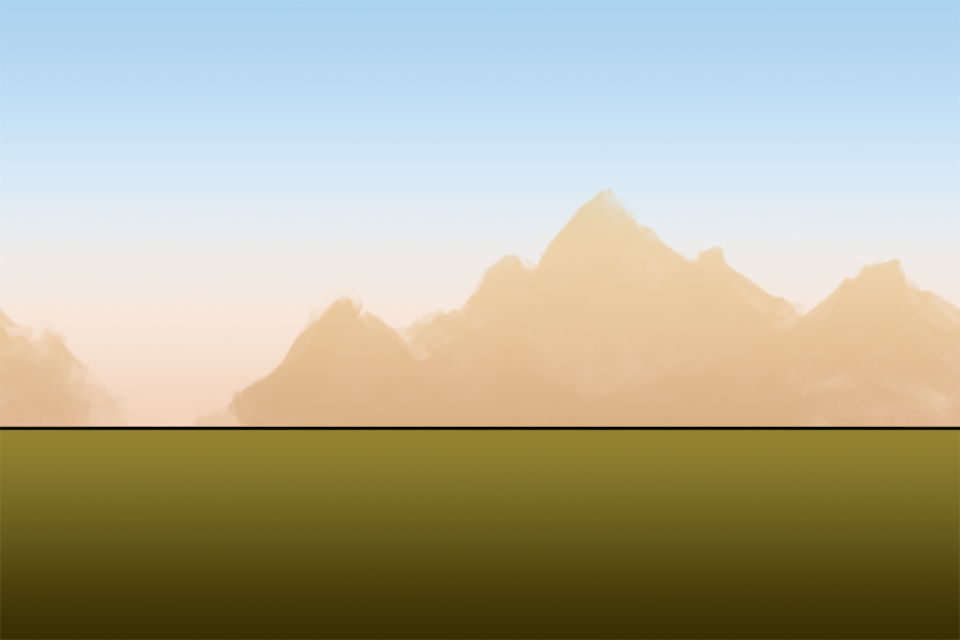
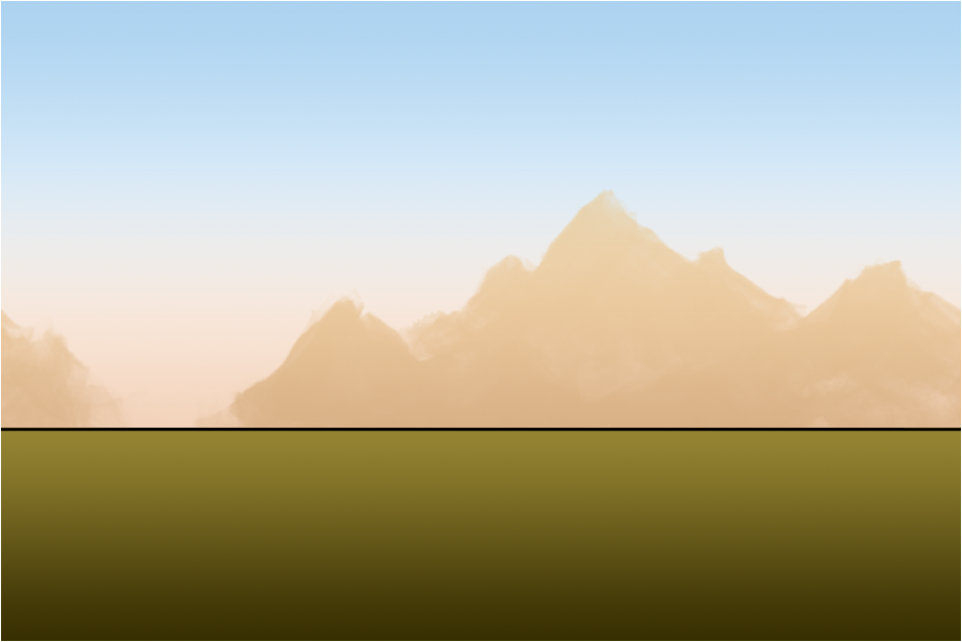
started work on background, trying to fix a single white line pixel around the border

Changed region(s): [[0.0938, 0.6562, 0.2188, 0.6875], [0.9688, 0.6562, 1.0, 0.6875], [0.0, 0.6562, 0.0312, 0.6875]]

diff --git a/Clay/Player.m b/Clay/Player.m
@@ -15,19 +15,19 @@
 #define PLAYER_STARTING_X_POSITION 20
 #define PLAYER_LOGX_MULTIPLIER 1
 #define PLAYER_LOGX_MAGNITUDE 5
-#define PLAYER_LOGX_OFFSET 3.4
-#define PLAYER_SINX_MULTIPLIER 5
+#define PLAYER_LOGX_OFFSET 8.55
+#define PLAYER_SINX_MULTIPLIER 1
 #define PLAYER_VELOCITY_MULTIPLIER 2
-#define PLAYER_LOGX_MAX_VALUE 3.2
+#define PLAYER_LOGX_MAX_VALUE 2.2
 
 @implementation Player
 
-+(id) playerForScene:(id)scene
++(id) playerForLayer:(id)layer
 {
-    return [[self alloc] initWithScene:scene];
+    return [[self alloc] initWithLayer:layer];
 }
 
-- (id)initWithScene:(id)scene
+- (id)initWithLayer:(id)layer
 {
     if ((self=[super init])) {
 
@@ -35,7 +35,7 @@
         _velocity = PLAYER_STARTING_VELOCITY;
         _xposition = PLAYER_STARTING_X_POSITION;
         
-        [self setSprite:[Sprite spriteWithFile:@"player_idle_01.png" toScene:scene]];
+        [self setSprite:[Sprite spriteWithFile:@"player_idle_01.png" toLayer:layer]];
         [self setPositionAtX:_xposition Y:PLAYER_STARTING_Y_POSITION];
         
         //log equation to be used for calculating speed
@@ -63,12 +63,12 @@
             logValue = PLAYER_LOGX_MAX_VALUE;
             [_sinCalculator addTime:dt];
         }
-        float sinValue = [_logCalculator calculate:kSinX];
+        float sinValue = [_sinCalculator calculate:kSinX];
         NSLog(@"LOG: %f, SIN: %f",logValue,sinValue);
         _velocity = (PLAYER_LOGX_MAGNITUDE * logValue + PLAYER_LOGX_OFFSET) + sinValue * 5;
         _xposition = PLAYER_STARTING_X_POSITION + PLAYER_VELOCITY_MULTIPLIER * _velocity;
+        NSLog(@"xpos: %f",_xposition);
         
-        //NSLog(@"Position: %f",logValue);
         [_sprite setPositionAtX:_xposition Y:PLAYER_STARTING_Y_POSITION];
     }
 }

diff --git a/Clay/Sprite.m b/Clay/Sprite.m
@@ -20,26 +20,51 @@
     return self;
 }
 
-+ (id) spriteWithFile:(NSString*)filename toScene:(id)scene
++(id) spriteWithFile:(NSString*)filename toLayer:(id)layer
 {
-    return [[self alloc] initWithFile:filename toScene:scene];
+    return [[self alloc] initWithFile:filename toLayer:layer];
 }
 
-- (id) initWithFile:(NSString*) filename toScene:(id)scene
++(id) spriteWithFile:(NSString *)filename rect:(CGRect)rect toLayer:(id)layer
+{
+    return [[self alloc] initWithFile:filename rect:rect toLayer:layer];
+}
+
+-(id) initWithFile:(NSString*) filename toLayer:(id)layer
 {
     NSAssert(filename!=nil, @"Invalid filename");
-    NSAssert(scene!=nil, @"Invalid scene");
+    NSAssert(layer!=nil, @"Invalid layer");
     
     if((self = [self init]))
     {
         sprite_cc = [[CCSprite spriteWithFile:filename] retain];
-        sprite_cc.position = ccp(0,0);
-        sprite_cc.anchorPoint = ccp(0,0);
-        [scene addChild:sprite_cc];
+        [self initializeSpriteOnceLoaded];
+        [layer addChild:sprite_cc];
     }
     return self;
 }
 
+-(id) initWithFile:(NSString *)filename rect:(CGRect)rect toLayer:(id)layer
+{
+    NSAssert(filename!=nil, @"Invalid filename");
+    NSAssert(layer!=nil, @"Invalid layer");
+    
+    if((self = [self init]))
+    {
+        sprite_cc = [[CCSprite spriteWithFile:filename] retain];
+        [self initializeSpriteOnceLoaded];
+        [layer addChild:sprite_cc];
+    }
+    return self;
+}
+
+-(void) initializeSpriteOnceLoaded
+{
+    NSAssert(sprite_cc!=nil, @"Do not call before sprite is loaded");
+    sprite_cc.position = ccp(0,0);
+    sprite_cc.anchorPoint = ccp(0,0);    
+}
+                     
 -(void) setCentered
 {
     sprite_cc.anchorPoint = ccp(0.5,0.5);

diff --git a/Clay/Background.m b/Clay/Background.m
@@ -1,0 +1,34 @@
+//
+//  Background.m
+//  Clay
+//
+//  Created by Brian Cable on 8/26/11.
+//  Copyright 2011 Xecudev, LLC. All rights reserved.
+//
+
+#import "Background.h"
+
+@implementation Background
+
+- (id)initForLayer:(id)layer
+{
+    self = [super init];
+    if (self) {
+        // Initialization code here.
+        _bkg1 = [Sprite spriteWithFile:@"background.bmp" toLayer:layer];
+        _bkg2 = [Sprite spriteWithFile:@"background.bmp" toLayer:layer];
+        [_bkg1 setPositionAtX:-160 Y:0];
+        [_bkg2 setPositionAtX:320 Y:0];
+    }
+    
+    return self;
+}
+
++(id)backgroundForLayer:(id)layer
+{
+    return [[self alloc] initForLayer:layer];
+}
+
+
+
+@end

diff --git a/Clay/Sprite.h b/Clay/Sprite.h
@@ -13,10 +13,14 @@
     CCSprite *sprite_cc;
 }
 
-+(id) spriteWithFile:(NSString *)filename toScene:(id)scene;
--(id) initWithFile:(NSString *)filename toScene:(id)scene;
++(id) spriteWithFile:(NSString *)filename toLayer:(id)layer;
++(id) spriteWithFile:(NSString *)filename rect:(CGRect)rect toLayer:(id)layer;
+
+-(id) initWithFile:(NSString *)filename toLayer:(id)layer;
+-(id) initWithFile:(NSString *)filename rect:(CGRect)rect toLayer:(id)layer;
 -(void) setCentered;
 -(void) setPositionAtX:(float)x Y:(float)y;
 -(CCSprite*) getCCSprite;
+-(void) initializeSpriteOnceLoaded;
 
 @end

diff --git a/Clay/GameLayer.m b/Clay/GameLayer.m
@@ -31,12 +31,8 @@
 - (id)init
 {
     if( (self=[super init])) {
-        CGSize screenSize = [[CCDirector sharedDirector] winSize];
-        background = [Sprite spriteWithFile:@"background.png" toScene:self];
-        [background setCentered];
-        [background setPositionAtX:screenSize.width/2 Y:screenSize.height/2];
-        
-        _player = [Player playerForScene:self];
+        _background = [Background backgroundForLayer:self];
+        _player = [Player playerForLayer:self];
         
         [self scheduleUpdate];
     }

diff --git a/Clay/Background.h b/Clay/Background.h
@@ -1,0 +1,20 @@
+//
+//  Background.h
+//  Clay
+//
+//  Created by Brian Cable on 8/26/11.
+//  Copyright 2011 Xecudev, LLC. All rights reserved.
+//
+
+#import <Foundation/Foundation.h>
+#import "BaseClasses.h"
+
+@interface Background : NSObject
+{
+    Sprite *_bkg1;
+    Sprite *_bkg2;
+}
+
++(id)backgroundForLayer:(id)layer;
+
+@end

diff --git a/Clay/Player.h b/Clay/Player.h
@@ -19,8 +19,8 @@
     TimeEquation *_sinCalculator;
 }
 
-+(id) playerForScene:(id)scene;
-- (id)initWithScene:(id)scene;
++(id) playerForLayer:(id)layer;
+- (id)initWithLayer:(id)layer;
 
 -(void)updatePlayer:(float)dt;
 

diff --git a/Clay/GameLayer.h b/Clay/GameLayer.h
@@ -14,9 +14,11 @@
 
 @interface GameLayer : CCLayer
 {
-    Sprite *background;
+    //Sprite *background;
     
     Player *_player;
+    
+    Background *_background;
 }
 
 +(CCScene *) scene;

diff --git a/Clay/GameClasses.h b/Clay/GameClasses.h
@@ -9,6 +9,7 @@
 #import <Foundation/Foundation.h>
 #import "BaseClasses.h"
 #import "Player.h"
+#import "Background.h"
 
 
 @interface GameClasses : NSObject
